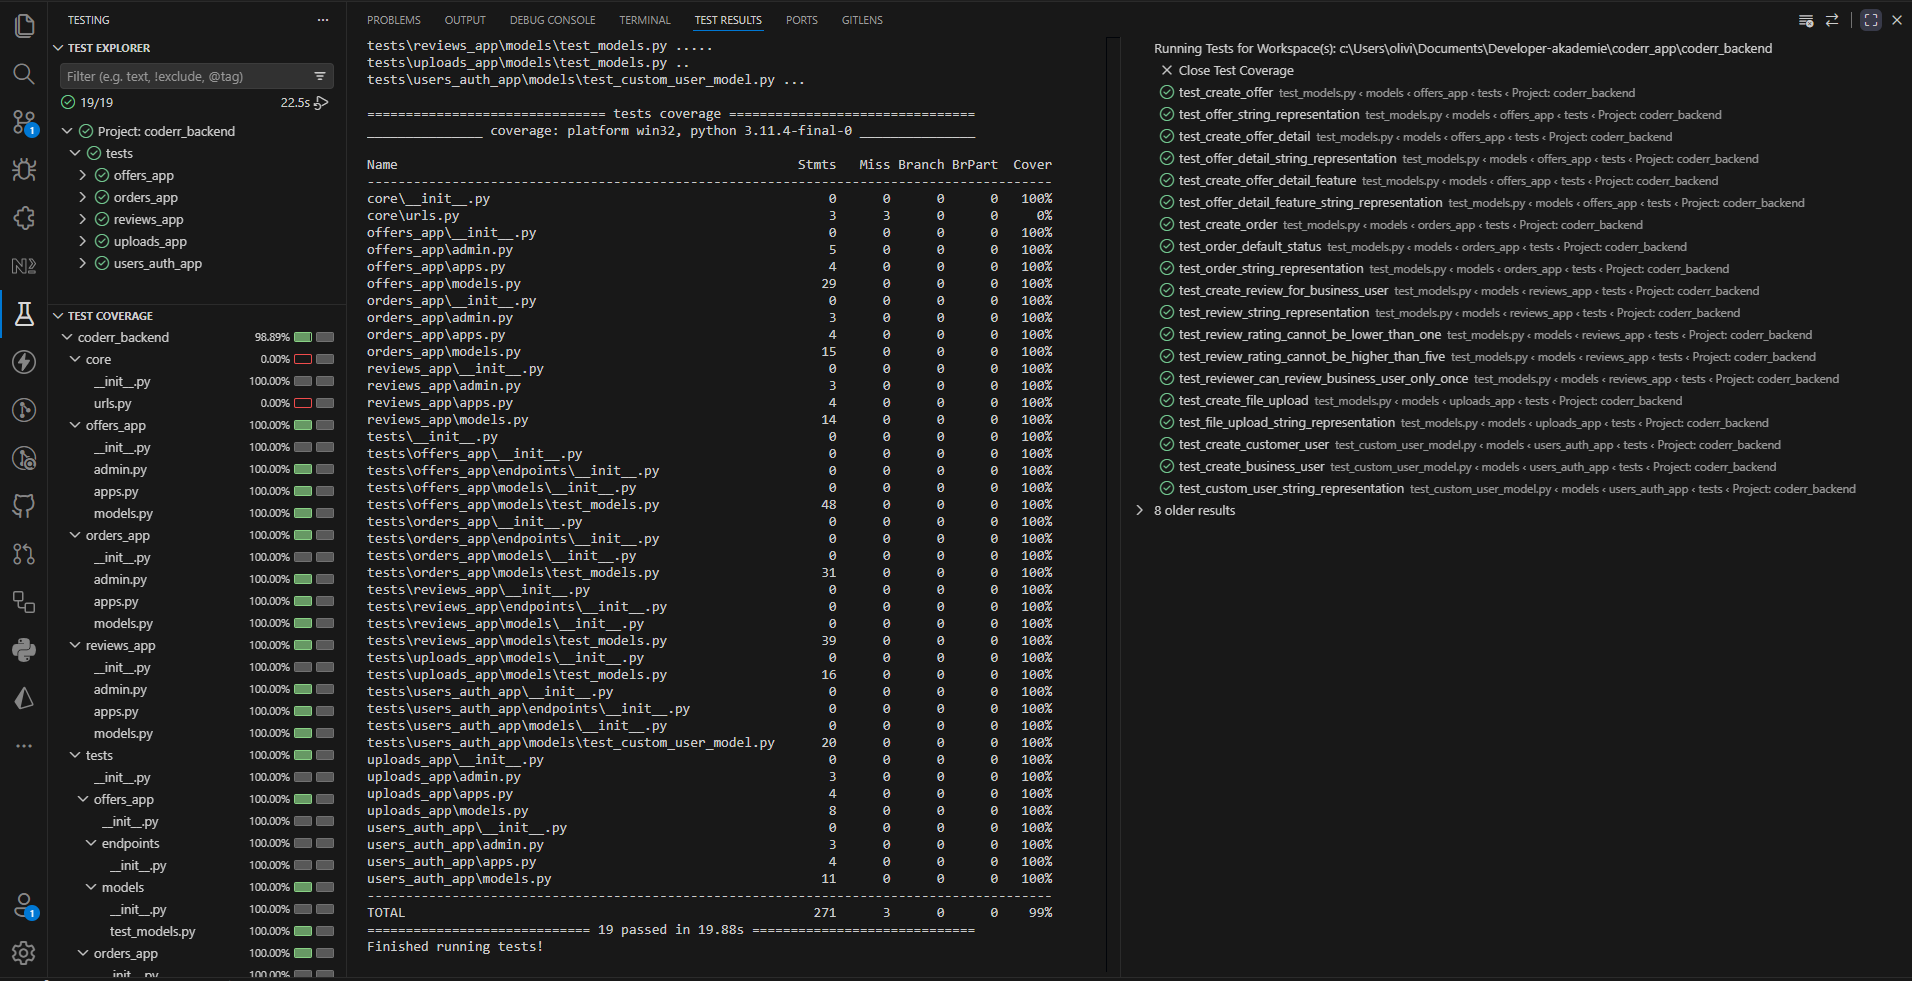
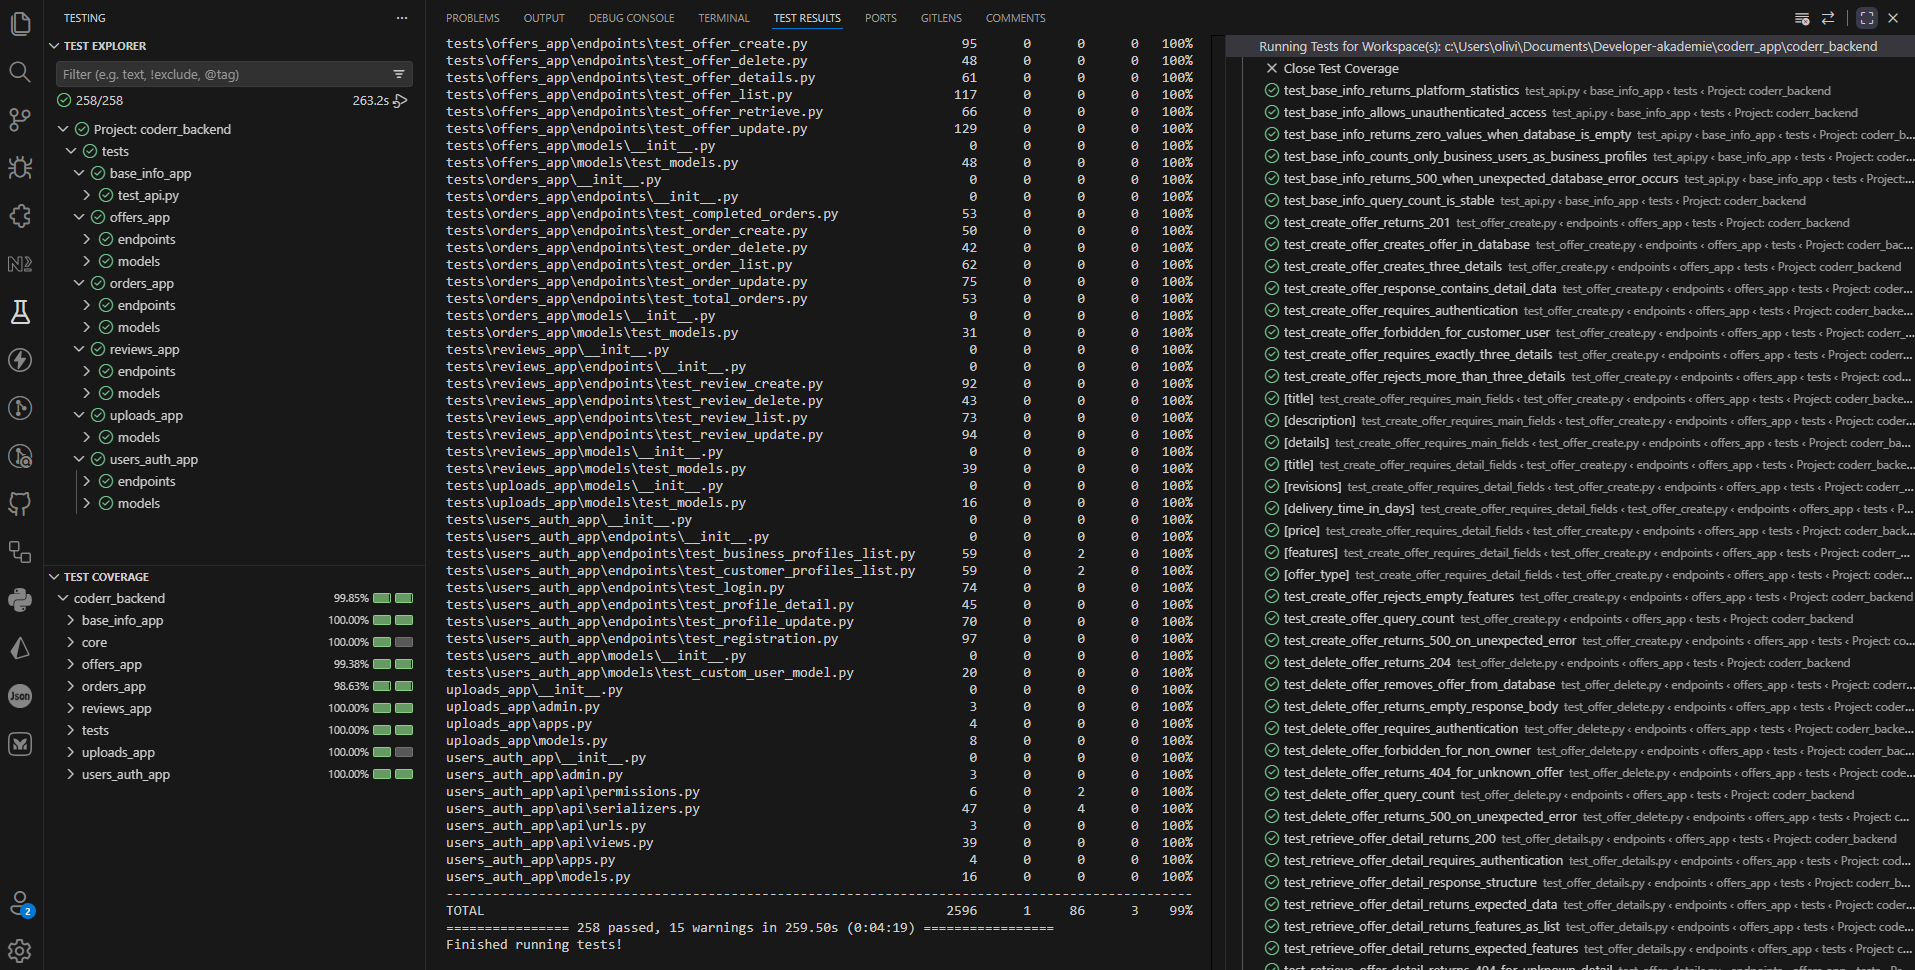
Add base-info endpoints and update directory structure in README

diff --git a/README.md b/README.md
@@ -141,6 +141,14 @@ Authorization: Token <your_token>
 
 ---
 
+## Base-info Endpoints
+
+| Method | Endpoint          | Description           |
+| ------ | ----------------- | --------------------- |
+| GET    | `/api/base-info/` | List base information |
+
+---
+
 ## 🧾 Example Requests
 
 ### Register User
@@ -178,6 +186,10 @@ coderr_backend/
 │   ├── asgi.py
 │   └── wsgi.py
 │
+├── base_info_app/
+│   ├── views.py
+│   └── urls.py
+│
 ├── users_auth_app/
 │   ├── models.py
 │   ├── serializers.py
@@ -209,6 +221,7 @@ coderr_backend/
 │   └── urls.py
 │
 ├── tests/
+│   ├── base_info_app/
 │   ├── users_auth_app/
 │   ├── uploads_app/
 │   ├── offers_app/
